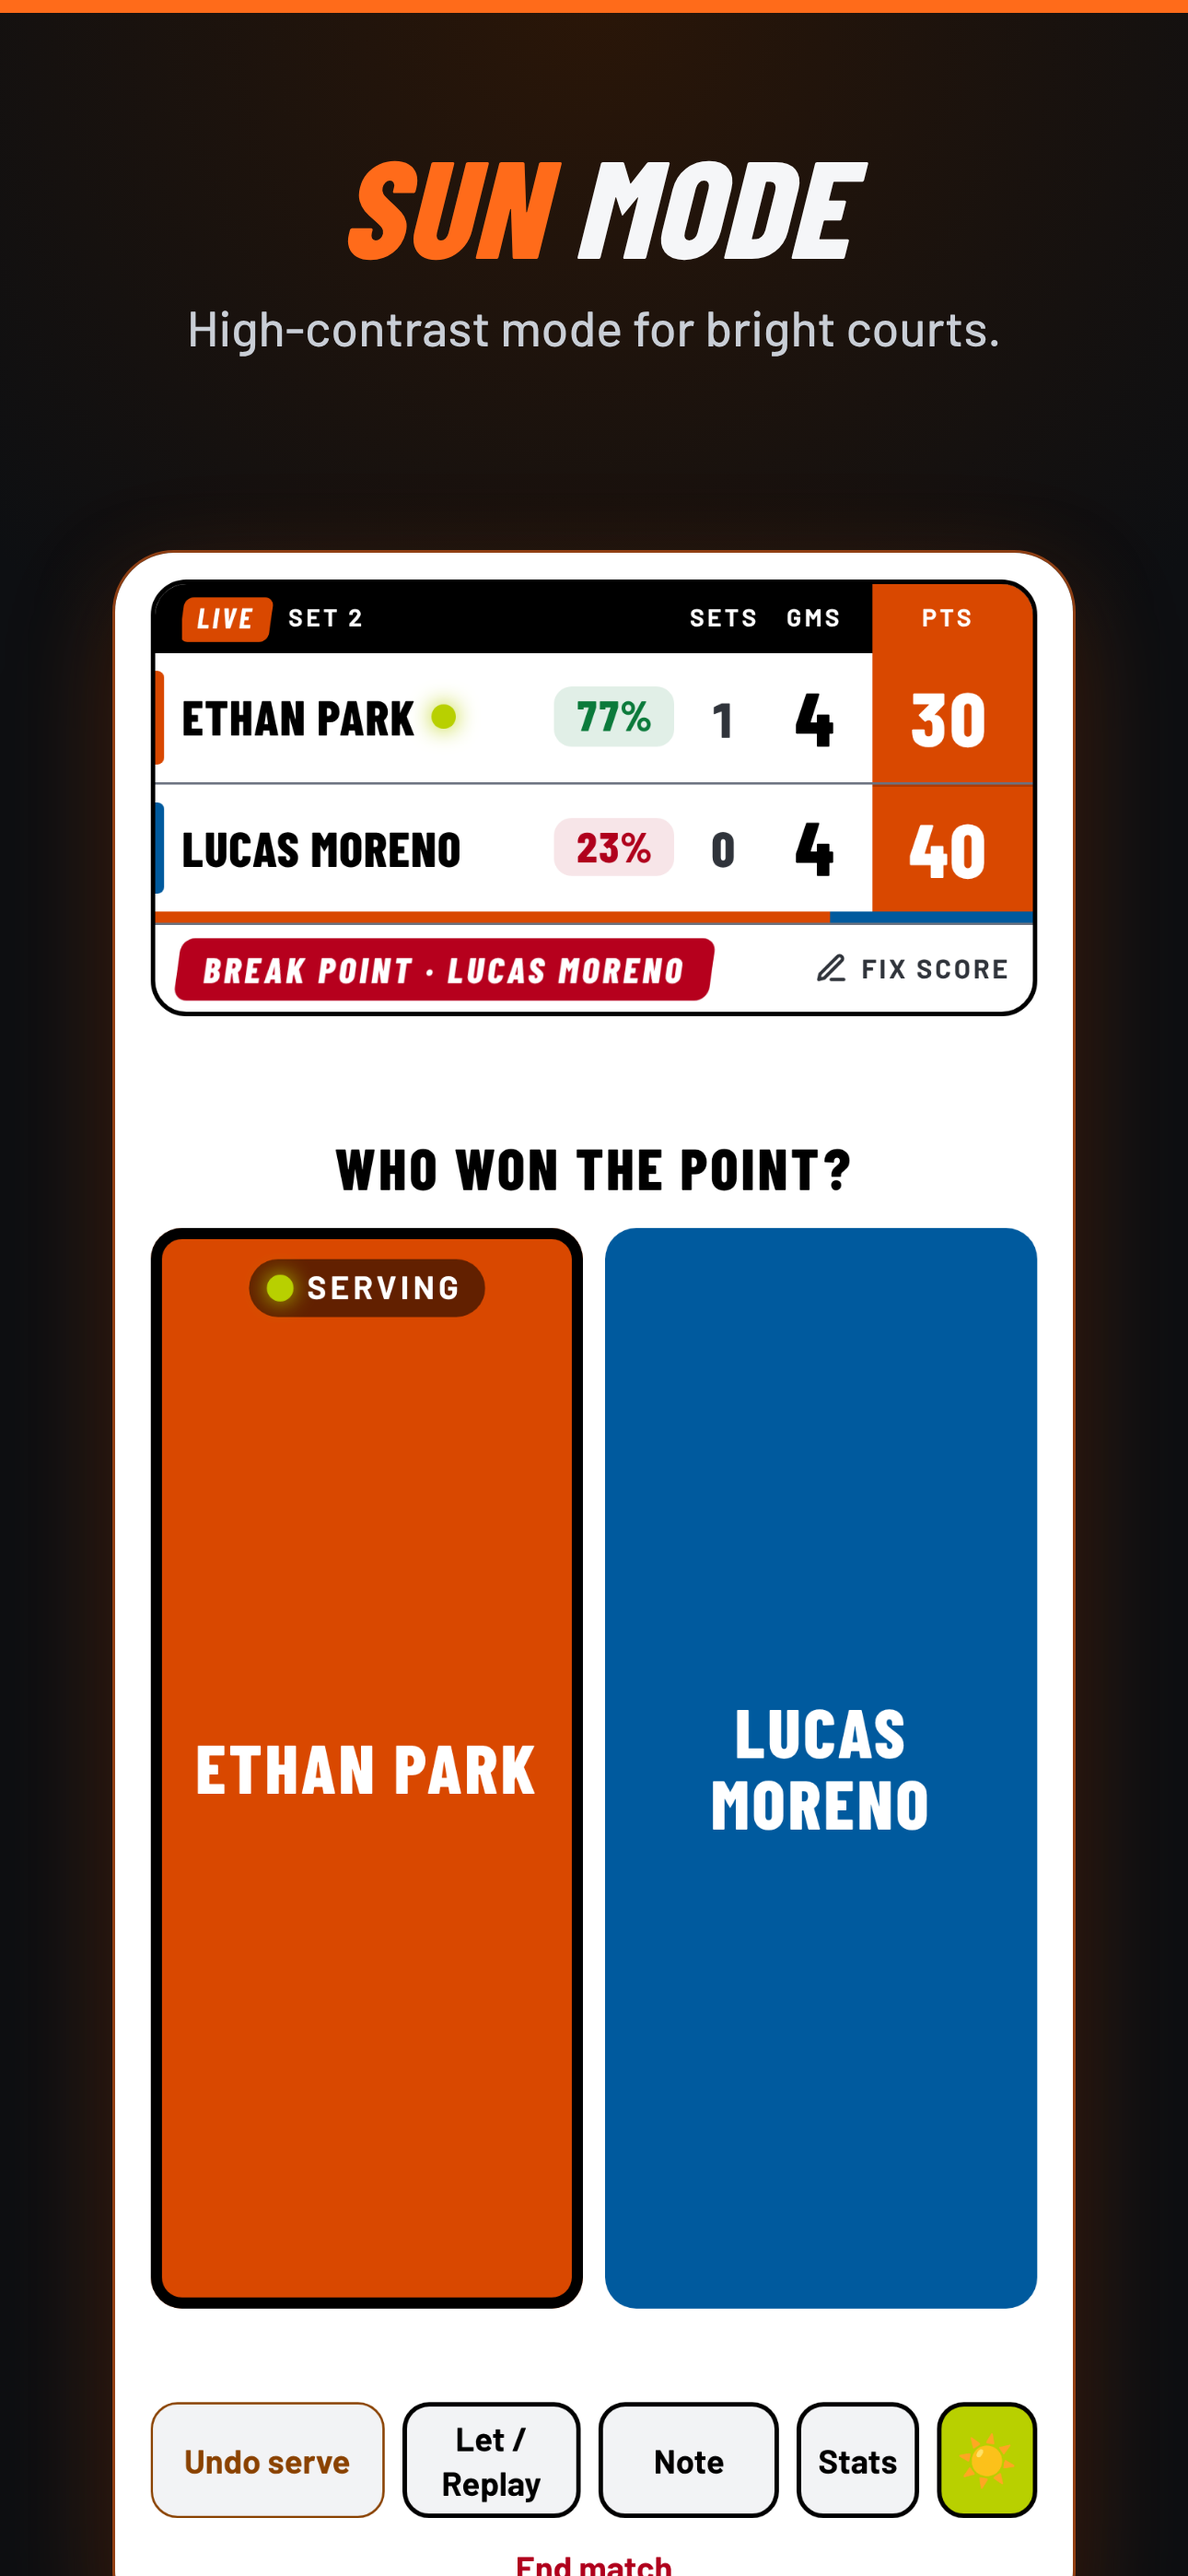
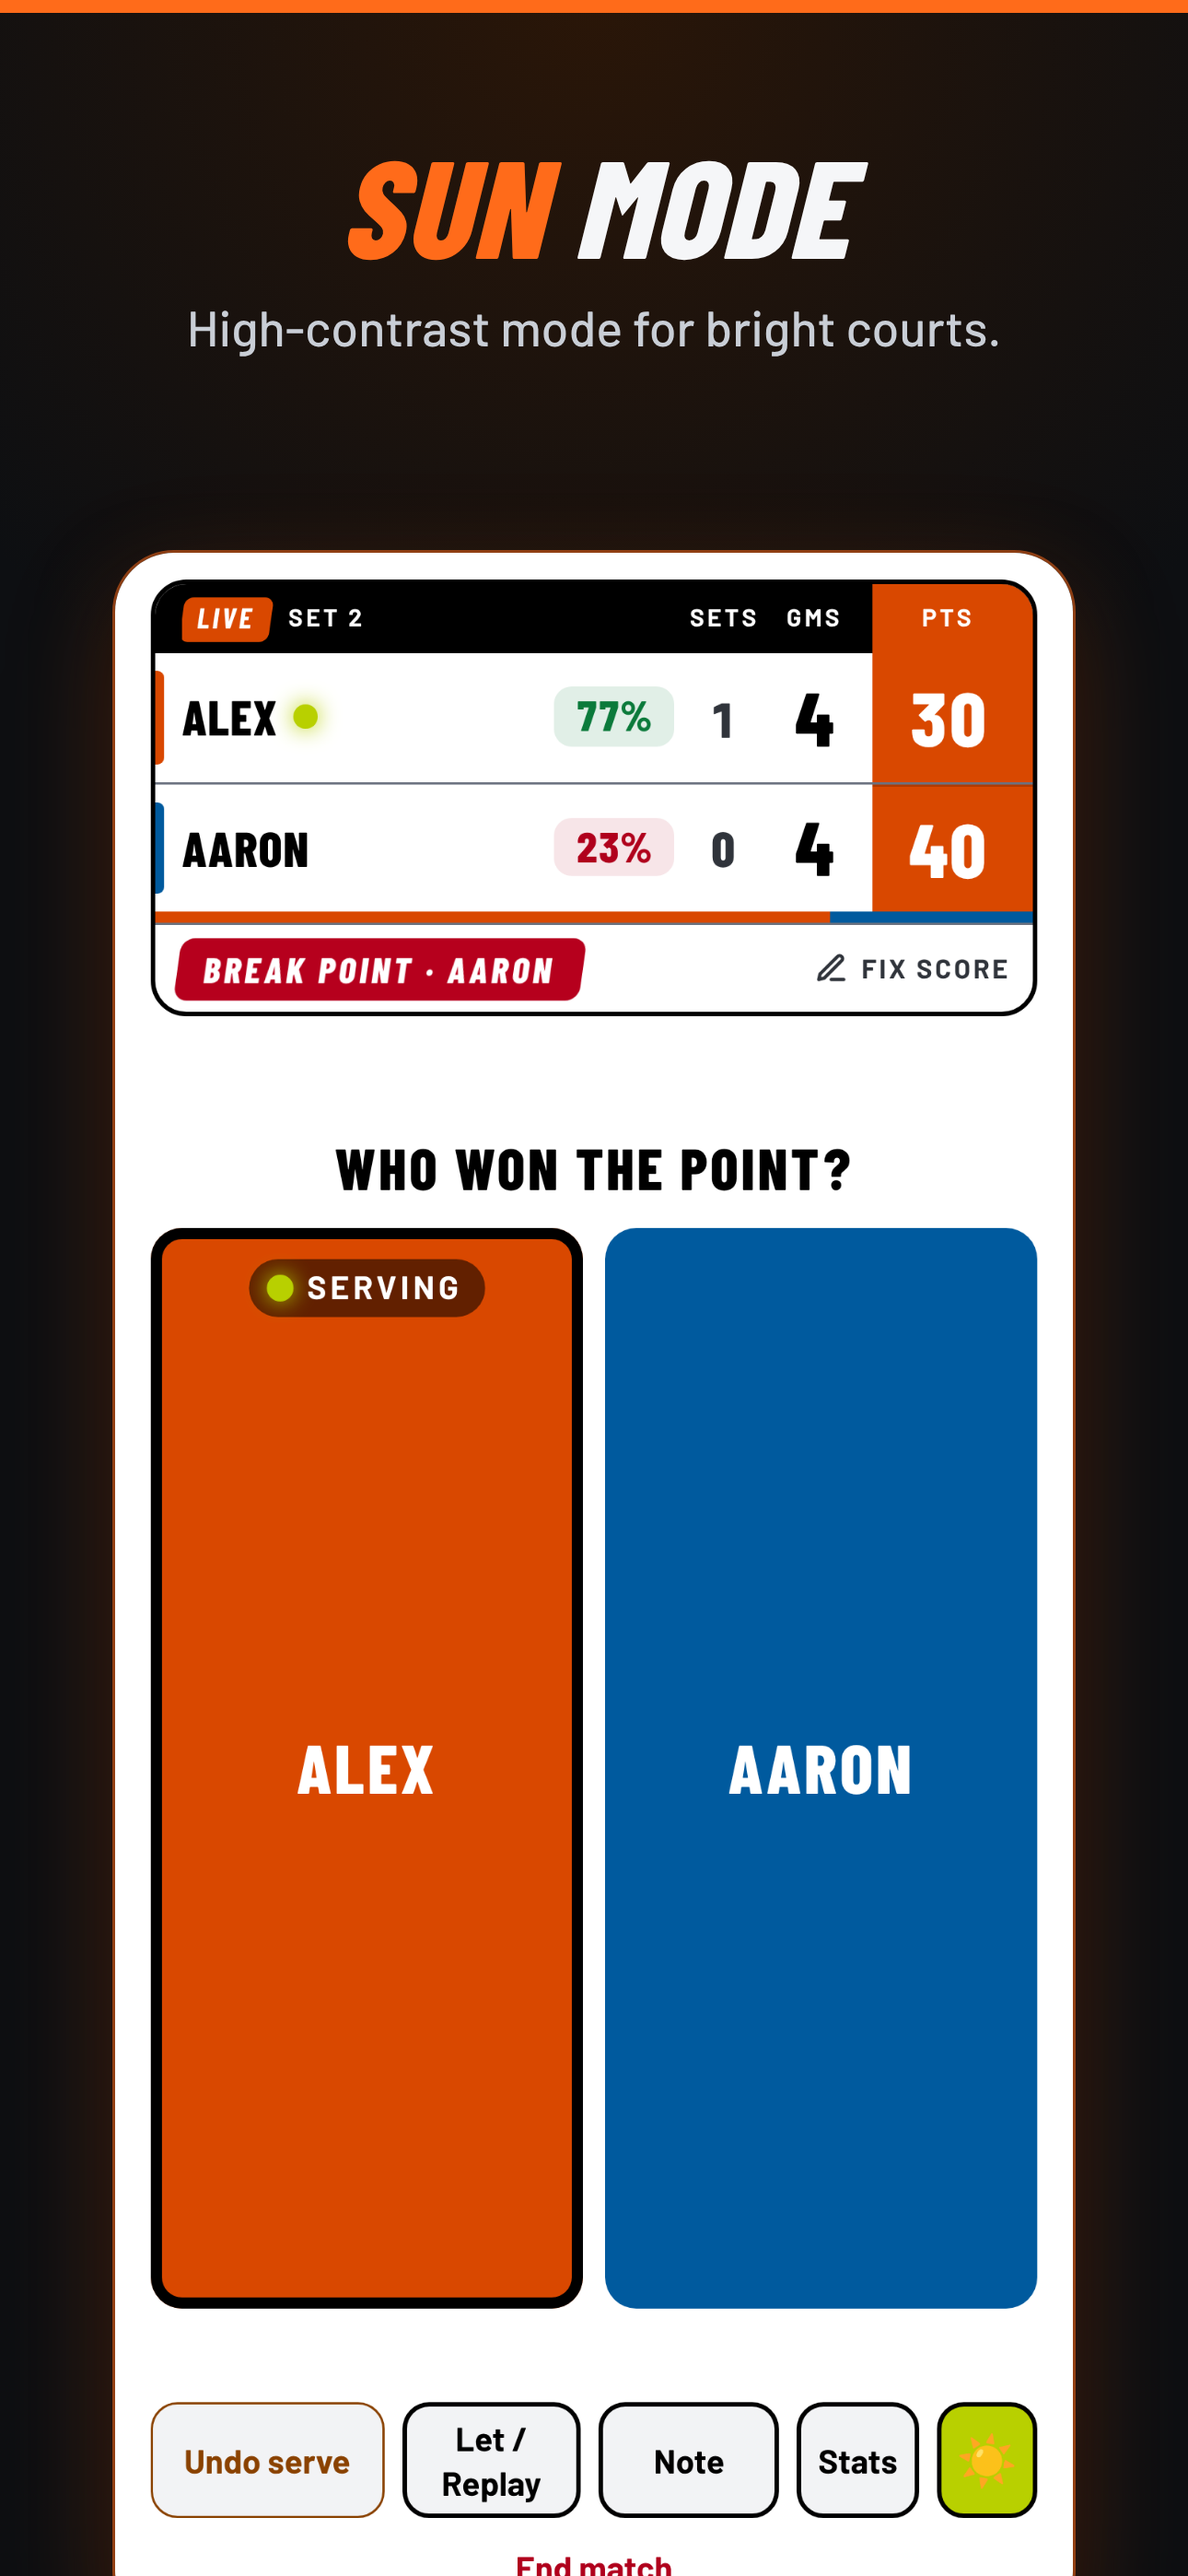
Store screenshots with players Alex and Aaron
Claude-Session: https://claude.ai/code/session_01PJJEnFSadi4snHTyMEWpU6

diff --git a/tests/storeshots.js b/tests/storeshots.js
@@ -4,7 +4,7 @@ const [OUT,W,H,DPR]=[process.argv[2],+process.argv[3],+process.argv[4],+process.
 (async()=>{ const b=await chromium.launch(); const p=await (await b.newContext({viewport:{width:W,height:H},deviceScaleFactor:DPR,isMobile:W<700,hasTouch:true})).newPage();
  const errs=[]; p.on('pageerror',e=>errs.push(e.message));
  await p.goto('file://'+path.resolve(__dirname,'../www/index.html')); await p.evaluate(()=>localStorage.clear()); await p.reload(); await p.evaluate(()=>document.fonts.ready);
- await p.fill('#p2name','Lucas Moreno'); await p.fill('#p2utr','10.25'); await p.fill('#p1name','Ethan Park'); await p.fill('#p1utr','10.65'); await p.evaluate(()=>document.activeElement.blur());
+ await p.fill('#p2name','Aaron'); await p.fill('#p2utr','10.25'); await p.fill('#p1name','Alex'); await p.fill('#p1utr','10.65'); await p.evaluate(()=>document.activeElement.blur());
  await p.screenshot({path:OUT+'/setup.png'});
  await p.click('#btn-start'); await p.waitForTimeout(300); await p.click('#sf-p1'); await p.waitForTimeout(300);
  // scripted match: Ethan wins set 1 6-4, set 2 at 4-4, Lucas serving 30-40 (break point Ethan)
